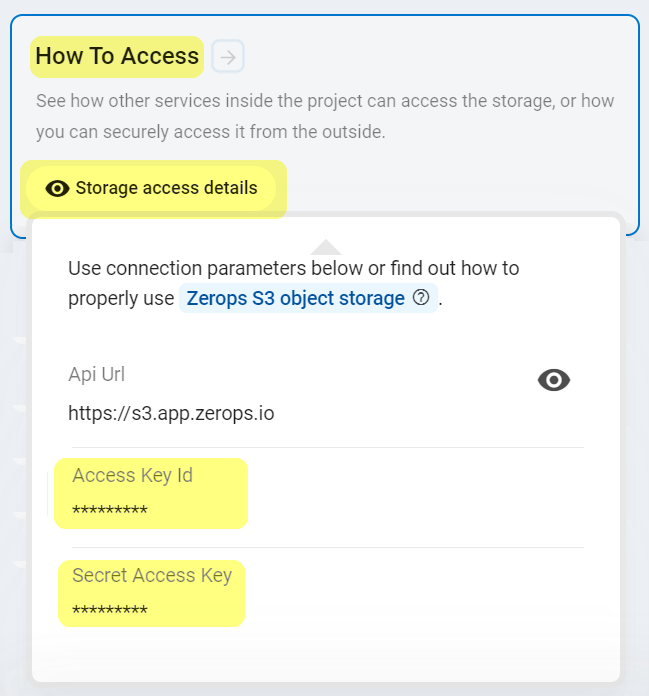
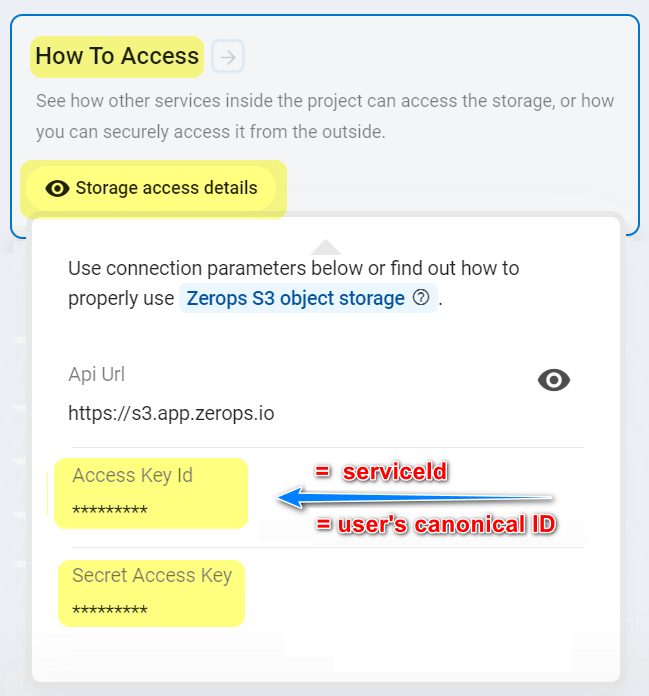
docs(storage): introducing unique bucket prefixes

Changed region(s): [[0.4314, 0.6638, 0.8629, 0.7845]]

diff --git a/src/documentation/services/storage/s3.md b/src/documentation/services/storage/s3.md
@@ -6,11 +6,17 @@ Zerops provides a fully managed and scaled S3 compatible object storage service,
 
 ### Used technology
 
-Zerops Object Storage is based on the technology of the [Ceph cluster](https://docs.ceph.com/en/latest/architecture) in version [v15.2 OCTOPUS](https://docs.ceph.com/en/latest/releases/octopus) with the [multi-tenancy](https://docs.ceph.com/en/latest/radosgw/multitenancy) feature, providing interfaces compatible with most of the Amazon S3 RESTful API.
+Zerops Object Storage is based on the technology of the [Ceph cluster](https://docs.ceph.com/en/latest/architecture) in version [v15.2 OCTOPUS](https://docs.ceph.com/en/latest/releases/octopus) with one namespace shared by all Zerops accounts (similar to [AWS S3](https://docs.aws.amazon.com/AmazonS3/latest/userguide/UsingBucket.html)), providing interfaces compatible with most of the Amazon S3 RESTful API. This means that after a bucket is created, the name of that bucket cannot be used by another Zerops account until the bucket is deleted.
+
+You can choose any bucket naming conventions you want, but **we recommend the following logic**, which should **guarantee all Zerops accounts a very high level of reliability and conflict avoidance**.
 
 <!-- markdownlint-disable DOCSMD004 -->
-::: info
-The object storage cluster is running in a HA mode (with multiple node flexibility controlled directly by Zerops) as a directly accessible service in the same way from all Zerops project's services and from the outside Internet through HTTPS protocol. Each new Zerops Object Storage Service creates a reserved and independent space based on the required disk capacity.
+::: info Zerops recommendation for the bucket naming convention
+A unique random **serviceId** 22-characters length internal value (see also [Storage access details](#from-local-development-environment)) is generated for each Zerops service instance. Using this value as a bucket name prefix, you can ensure that any of your created ones will be unique among all other bucket names across the whole Zerops namespace.
+
+**Recommended syntax**: `<serviceId>:<bucketName>`
+
+Use this prefix value consistently for each created bucket name. Because it's a soft rule, it is not 100% certain, and always use the existence checking for such a new bucket name. There is a very low probability that other users will accidentally use such a combination of characters if, for some reason, they don't respect our recommendation.
 :::
 <!-- markdownlint-enable DOCSMD004 -->
 
@@ -25,7 +31,7 @@ Choose a short and descriptive URL-friendly name, for example, **store**. The fo
 
 <!-- markdownlint-disable DOCSMD004 -->
 ::: info
-The object storage name is also automatically used to create a tenant user account under which all buckets and objects are subsequently created. This user is, therefore, their **owner with full access rights**. See [Object storage owner identity](#object-storage-owner-identity) section for more info. ==**You can't create any new users on your own.**==
+The object storage name is also automatically used to create a user account under which all buckets and objects are subsequently created. This user is, therefore, their **owner with full access rights**. See [Object storage owner identity](#object-storage-owner-identity) section for more info. ==**You can't create any new users on your own.**==
 
 Creating different object storage services allows you to set different ACL settings to get required [access rights](https://docs.aws.amazon.com/AmazonS3/latest/userguide/acl-overview.html), including canned ACL like [public read/write access](https://docs.aws.amazon.com/AmazonS3/latest/userguide/acl-overview.html#canned-acl) ([see examples](/documentation/services/storage/s3.html#from-runtime-services-inside-the-project)).
 :::
@@ -34,6 +40,12 @@ Creating different object storage services allows you to set different ACL setti
 ### API URL endpoint and port
 
 The Zerops Object Storage service is accessible on [https://s3.app.zerops.io](https://s3.app.zerops.io). The port is always set to the default value of HTTPS protocol **==443==** and can't be changed.
+
+<!-- markdownlint-disable DOCSMD004 -->
+::: info
+The object storage cluster is running in a HA mode (with multiple node flexibility controlled by Zerops) as a directly accessible service in the same way from all Zerops project's services and from the outside Internet through HTTPS protocol. Each new Zerops Object Storage Service creates a reserved and independent space based on the required disk capacity.
+:::
+<!-- markdownlint-enable DOCSMD004 -->
 
 ### Required disk capacity
 
@@ -47,15 +59,13 @@ Chosen disk capacity is currently not automatically scaled in any way and needs 
 
 ### Location of the Zerops HW infrastructure
 
-The Zerops infrastructure is completely located in **Europe/Prague**. Regardless of this fact, the default S3 region option ==**us-east-1**== must be used as a region property value.
+The Zerops infrastructure is completely located in **Europe/Prague**. Regardless of this fact, the default S3 region option ==**us-east-1**== must be used as a region property value. This option is related to minimizing any subsequent complications when communicating with various client tools and SDKs.
 
 ### Object store bucket names
 
-Each Zerops Object Storage Service represents one dedicated [tenant](https://docs.ceph.com/en/latest/radosgw/multitenancy).
-
 The [following rules](https://docs.ceph.com/en/latest/radosgw/s3/bucketops/#constraints) apply:
 
-* must be unique only in the scope of each tenant,
+* must be unique in the same shared Zerops region namespace,
 * cannot be formatted as IP address,
 * can be between 3 and 63 characters long,
 * must not contain uppercase characters or underscores,
@@ -70,15 +80,15 @@ You can create up to 1000 buckets per one Zerops Object Storage Service.
 
 ### Object storage owner identity
 
-For each Zerops Object Storage Service, one tenant account with [canonical id](https://docs.aws.amazon.com/general/latest/gr/acct-identifiers.html) is automatically created with the same name as the chosen [Object storage name](#object-storage-name). Under this account, all buckets and objects are created later, and this user is listed as the owner and the the only one grantee with the following attributes, as an example:
+For each Zerops Object Storage Service, one account with the same [canonical id](https://docs.aws.amazon.com/general/latest/gr/acct-identifiers.html) as the uniquely generated **serviceId** (see also [Storage access details](#from-local-development-environment)) of that instance, is automatically created with the same name as the chosen [Object storage name](#object-storage-name). Under this account, all buckets and objects/files are created later, and this user is listed as the owner and the the only one grantee with the following attributes, as an example:
 
 |DisplayName  |ID                        |Type             |
 |:------------|:-------------------------|:----------------|
 |==**store**==|==0LW7E_BUT-yKmmEcyf3dzQ==|**CanonicalUser**|
 
 <!-- markdownlint-disable DOCSMD004 -->
-::: info Tenant identifier and user canonical id
-The unique generated id of the created Zerops Object Storage Service instance is used as the **tenant identifier**. The same value is used also as the canonical **ID** property above.
+::: info User canonical ID
+The unique generated **serviceId** (see [Storage access details](#from-local-development-environment)) of the created Zerops Object Storage Service instance is used as the canonical **ID** property above.
 :::
 <!-- markdownlint-enable DOCSMD004 -->
 
@@ -130,18 +140,24 @@ To a certain extent, it's possible to use it also for fundamental backups & rest
 
 The installation is straightforward, as you can find in the [instructions](https://rclone.org/install). To config accessing data of Zerops object storage services, run the config wizard by the command ==`rclone config`== , follow the instructions and default options. Be careful only in the steps when choosing:
 
-|Question                                                                |Answer                                                                  |
-|:-----------------------------------------------------------------------|:-----------------------------------------------------------------------|
-|**Name** (named remote)                                                 |a chosen value of the ==`Object storage name`== , like ==`store`==      |
-|**Choose your S3 provider**                                             |==`Ceph`==                                                              |
-|**Enter AWS credentials in the next step**                              |==`false`==                                                             |
-|**AWS Access Key ID**                                                   |the value from the Zerops Storage access details ==`Access Key Id`==    |
-|**AWS Secret Access Key**                                               |the value from the Zerops Storage access details ==`Secret Access Key`==|
-|**Region to connect to**                                                |==`""`==                                                                |
-|**Endpoint for S3 API**                                                 |the value from the Zerops Storage access details ==`Api Url`==          |
-|**Canned ACL used when creating buckets and storing or copying objects**|as you want, probably the default value ==`private`==                   |
+|Question                                                                |Answer                                                                   |
+|:-----------------------------------------------------------------------|:------------------------------------------------------------------------|
+|**Name** (named remote)                                                 |choose the same value as the **Object storage name** , like ==`store`==  |
+|**Choose your S3 provider**                                             |==`Ceph`==                                                               |
+|**Enter AWS credentials in the next step**                              |==`false`==                                                              |
+|**AWS Access Key ID**                                                   |a value from the Zerops Storage access details ==`Access Key Id`==       |
+|**AWS Secret Access Key**                                               |a value from the Zerops Storage access details ==`Secret Access Key`==   |
+|**Region to connect to**                                                |==`""`==                                                                 |
+|**Endpoint for S3 API**                                                 |a value from the Zerops Storage access details ==`Api Url`==             |
+|**Canned ACL used when creating buckets and storing or copying objects**|as you want, probably the default value ==`private`==                    |
 
 After that you can run [commands](https://rclone.org/commands), for example:
+
+<!-- markdownlint-disable DOCSMD004 -->
+::: info Using a simplified bucket name
+As explained earlier, the standard way to get a unique name of a bucket is using a randomly generated prefix that guarantees a high probability of such uniqueness, such as an internal ID of each Zerops service. To simplify the syntax of the following examples, we use only the ==`records`== bucket name.
+:::
+<!-- markdownlint-enable DOCSMD004 -->
 
 |Command                                            |Result                                                                                        |
 |:--------------------------------------------------|:---------------------------------------------------------------------------------------------|
@@ -162,3 +178,13 @@ The equivalent of an object/file key is a file name in a local file system. Then
 You can also run the command ==`rclone rcd --rc-web-gui --rc-user=<user> --rc-pass=<pass>`== to locally serve a web based [GUI](https://github.com/rclone/rclone-webui-react) of Rclone. The optional parameters `rc-user` and `rc-pass` allows to choose your own defined values to secure the environment.
 
 ![Rclone GUI](./images/Rclone-GUI.png "Rclone GUI Dashboard")
+
+## Data protection in Zerops Object Storage
+
+Zerops S3 compatible [Ceph](https://docs.ceph.com/en/latest/architecture) object storage cluster provides similar storage infrastructure as AWS S3. Objects/files are redundantly stored on multiple HW devices, and their durability is maintained by quickly detecting and repairing any lost redundancy. All of that guarantees 99.99999 % data availability at any moment.
+
+<!-- markdownlint-disable DOCSMD004 -->
+::: warning Accidentally deleted data
+Zerops does not ensure the back availability of accidentally deleted data to the user in any way. You have to use your way to protect against such cases. For example, using more Zerops object storage services and periodical backing up versioned data sets among them or syncing data between Zerops and other environments, including local file systems.
+:::
+<!-- markdownlint-enable DOCSMD004 -->

diff --git a/src/knowledge-base/how-to-do/using-object-storage-in-php.md b/src/knowledge-base/how-to-do/using-object-storage-in-php.md
@@ -37,7 +37,7 @@ Suppose the code is used in a php file located in a [document root](/documentati
 
 <!-- markdownlint-disable DOCSMD004 -->
 ::: warning Temporary solution
-At this time, environment variables generated by Zerops Object Storage Services are **not available** in other services. For this reason, it is necessary to use their `accessKeyId`, `secretAccessKey`, or `apiUrl` values by manually copying them from the [environment variables](/documentation/environment-variables/how-to-access.html) card of the service details.
+At this time, environment variables generated by Zerops Object Storage Services are **not available** in other services. For this reason, it is necessary to use their `accessKeyId` (equal to **serviceId** and **user's canonical ID**), `secretAccessKey`, or `apiUrl` values by manually copying them from the [environment variables](/documentation/environment-variables/how-to-access.html) card of the service details.
 
 The code for getting ==**$credentials**== would be then:
 
@@ -52,6 +52,12 @@ The code for getting ==**$apiUrlValue**== would be then:
 
 ```php
 $apiUrlValue = 'https://s3.app.zerops.io';
+```
+
+The code for getting ==**$uniqueBucketPrefix**== (a unique prefix for a bucket name):
+
+```php
+$uniqueBucketPrefix = '0LW7E_BUT-yKmmEcyf3dzQ';
 ```
 
 This limitation is temporary only and will be removed as soon as possible.
@@ -88,8 +94,8 @@ The unique generated id of the created Zerops Object Storage Service instance is
     $secretAccessKey = 'secretAccessKey';
     // Get an object with credentials.
     $credentials = new Credentials(
-      getenv("{$objetStorageName}_${$accessKeyId}"),
-      getenv("{$objetStorageName}_${secretAccessKey}")
+      getenv("${$objetStorageName}_${$accessKeyId}"),
+      getenv("${$objetStorageName}_${$secretAccessKey}")
     );
   } catch (S3Exception $e) {
     echo 'Error: ' . $e->getCode() . ':' . $e->getMessage();
@@ -103,12 +109,14 @@ When having `$credentials` from the previous code snippet (supposing all declare
 
 ```php
 <?php
+  // All bucket names in the Zerops shared object storage namespace have to be unique!
+  $uniqueBucketPrefix = getenv("${$objetStorageName}_${$accessKeyId}");
   // Required bucket name.
-  // All bucket names in one Zerops Object Storage Service have to be unique!
-  $bucketName = 'records';
+  $localBucketName = 'records';
+  $bucketName = "${$uniqueBucketPrefix}:${$localBucketName}";
   // Necessary environment variable name.
   $apiUrl = 'apiUrl';
-  $apiUrlValue = getenv("{$objetStorageName}_${$apiUrl}");
+  $apiUrlValue = getenv("${$objetStorageName}_${$apiUrl}");
 
   // Function declaration.
   function getS3Client($apiUrlValue, $credentials) {
@@ -159,8 +167,11 @@ When having `$credentials` and `getS3Client` function from the previous code sni
 
 ```php
 <?php
+  // All bucket names in the Zerops shared object storage namespace have to be unique!
+  $uniqueBucketPrefix = getenv("${$objetStorageName}_${$accessKeyId}");
   // Required bucket name.
-  $bucketName = 'records';
+  $localBucketName = 'records';
+  $bucketName = "${$uniqueBucketPrefix}:${$localBucketName}";
 
   // Function declaration.
   function getBucketAcl($s3Client, $bucketName) {
@@ -228,8 +239,11 @@ When having `$credentials` and `getS3Client` function from the previous code sni
 
 ```php
 <?php
+  // All bucket names in the Zerops shared object storage namespace have to be unique!
+  $uniqueBucketPrefix = getenv("${$objetStorageName}_${$accessKeyId}");
   // Required bucket name.
-  $bucketName = 'records';
+  $localBucketName = 'records';
+  $bucketName = "${$uniqueBucketPrefix}:${$localBucketName}";
 
   // Function declaration.
   function putBucketAcl($s3Client, $bucketName) {
@@ -274,8 +288,11 @@ Setting ==`Grants`== requires defining the complete list of items ( ==`Grantee`=
 
 ```php
 <?php
+  // All bucket names in the Zerops shared object storage namespace have to be unique!
+  $uniqueBucketPrefix = getenv("${$objetStorageName}_${$accessKeyId}");
   // Required bucket name.
-  $bucketName = 'records';
+  $localBucketName = 'records';
+  $bucketName = "${$uniqueBucketPrefix}:${$localBucketName}";
 
   $accessControlPolicy => [
     'Grants' => [
@@ -325,8 +342,11 @@ When having `$credentials` from the previous code snippet (supposing all declare
 
 ```php
 <?php
+  // All bucket names in the Zerops shared object storage namespace have to be unique!
+  $uniqueBucketPrefix = getenv("${$objetStorageName}_${$accessKeyId}");
   // Required bucket name.
-  $bucketName = 'records';
+  $localBucketName = 'records';
+  $bucketName = "${$uniqueBucketPrefix}:${$localBucketName}";
 
   // Declaration of an object with body to be placed into a bucket.
   $objectBodyKey = "K1.txt";
@@ -382,8 +402,11 @@ When having `$credentials` from the previous code snippet (supposing all declare
 
 ```php
 <?php
+  // All bucket names in the Zerops shared object storage namespace have to be unique!
+  $uniqueBucketPrefix = getenv("${$objetStorageName}_${$accessKeyId}");
   // Required bucket name.
-  $bucketName = 'records';
+  $localBucketName = 'records';
+  $bucketName = "${$uniqueBucketPrefix}:${$localBucketName}";
 
   // Declaration of an object key its body content to be get from a bucket.
   $objectBodyKey = "K1.txt";
